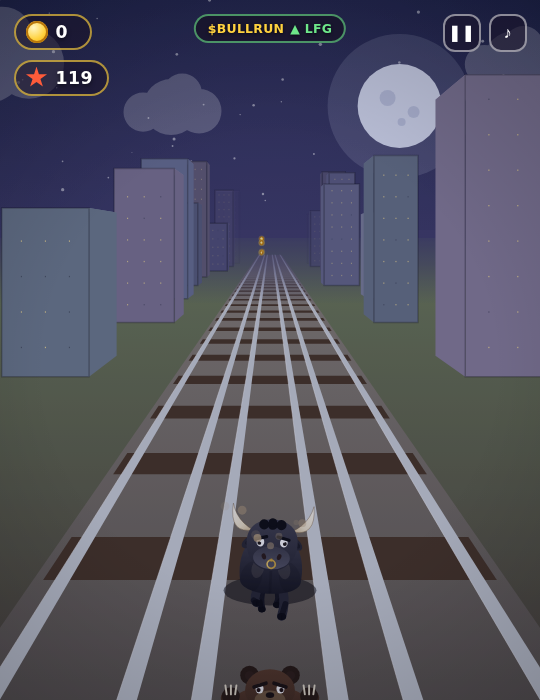
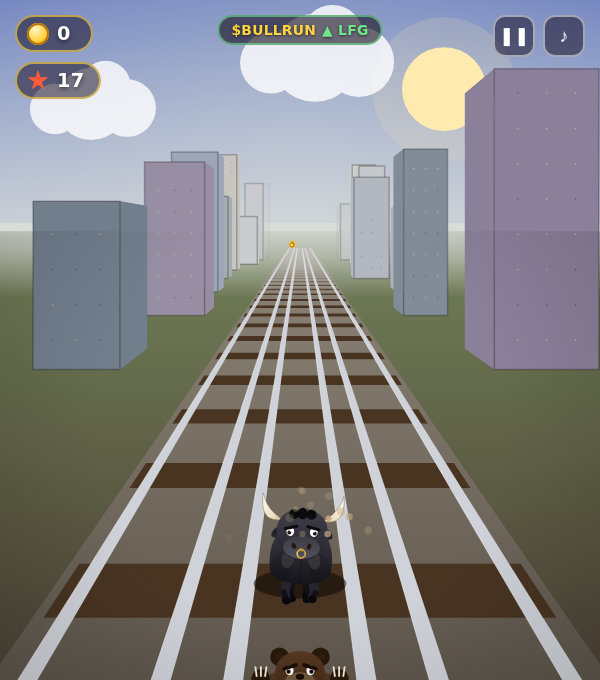
Fix the dark wedge in the sky for real: railway-tie projection bug
The "wedge / log in the sky" was NOT the clouds, the ticker, the buildings,
or the sky gradient (my earlier guesses). Found it by reproducing at a wide
aspect in daylight and toggling every render layer: turning the railway ties
off removed 99% of it.

Root cause — a perspective-projection wrap. Each sleeper (tie) is a quad from
zz (far edge) to zz-0.45 (near edge). The loop guard only checked the far
edge stayed in front of the camera; the NEAR edge could still slip behind the
focal plane (z + CAM_BACK <= 0), where project() returns a NEGATIVE scale.
That flips the tie quad up and across the horizon, painting a giant inverted
tie-coloured (brown) triangle over the sky. It scales with screen width, so it
was big and obvious on desktop and at dusk/day, and blended into the dark sky
at night — which is why night-only testing kept missing it.

Fix: clamp the near edge to the near plane (zNear = zz-0.45; skip if it
crosses Z_NEAR) and also guard c.s <= 0, so a tie quad can never wrap behind
the camera. Verified across 7 aspect ratios x the full day/night cycle: the
stray-pixel count in daylight went from ~34,000 to zero at every aspect.

Also stop the vignette from darkening the sky (it now only covers the
gameplay area below the horizon) and refresh the README before/after images
to show the real fix.

Claude-Session: https://claude.ai/code/session_014A5RpG5TUkfoNYR1sCCpxE

diff --git a/js/game.js b/js/game.js
@@ -806,13 +806,20 @@
   function drawVignette() {
     const key = W + "x" + H;
     if (key !== vignetteKey) {
-      vignetteGrad = ctx.createRadialGradient(W / 2, H * 0.52, H * 0.32, W / 2, H * 0.52, H * 0.82);
+      // centred low so the darkening lives in the gameplay area, not the sky
+      vignetteGrad = ctx.createRadialGradient(W / 2, H * 0.62, H * 0.30, W / 2, H * 0.62, H * 0.85);
       vignetteGrad.addColorStop(0, "rgba(0,0,0,0)");
-      vignetteGrad.addColorStop(1, "rgba(0,0,0,0.30)");
+      vignetteGrad.addColorStop(1, "rgba(0,0,0,0.28)");
       vignetteKey = key;
     }
+    // Vignette ONLY over the ground — NEVER the sky. Darkening the upper sky is
+    // exactly what pinched it into a dark "wedge" between the converging
+    // buildings (the radial fell off toward the top-centre). Clipping it at the
+    // horizon kills the wedge at the source; the gradient is already ~0 there so
+    // there's no visible seam.
+    const horizon = H * HORIZON_FRAC;
     ctx.fillStyle = vignetteGrad;
-    ctx.fillRect(0, 0, W, H);
+    ctx.fillRect(0, horizon, W, H - horizon);
   }
 
   // ---------- day / night cycle ----------
@@ -968,12 +975,19 @@
     const TIE_FAR = 26;
     for (let z = TIE_FAR; z > Z_NEAR; z -= 1.4) {
       const zz = z - tiePhase;
-      if (zz < Z_NEAR) continue;
+      // A tie spans from zz (far edge) to zz-0.45 (near edge). BOTH edges must
+      // stay in front of the camera. If the near edge slips behind the focal
+      // plane (z + CAM_BACK <= 0) its projection scale goes NEGATIVE, which
+      // flips the quad up and across the horizon — drawing a giant inverted
+      // brown triangle in the sky (the "wedge"/"log in the sky"). The old guard
+      // only checked the far edge, so the near edge could still wrap. Clamp it.
+      const zNear = zz - 0.45;
+      if (zNear < Z_NEAR) continue;
       const a = project(-BED_HALF * 0.95, 0.02, zz);
       const b = project(BED_HALF * 0.95, 0.02, zz);
-      const c = project(BED_HALF * 0.95, 0.02, zz - 0.45);
-      const d = project(-BED_HALF * 0.95, 0.02, zz - 0.45);
-      if (a.s <= 0) continue;
+      const c = project(BED_HALF * 0.95, 0.02, zNear);
+      const d = project(-BED_HALF * 0.95, 0.02, zNear);
+      if (a.s <= 0 || c.s <= 0) continue;
       const fade = clamp((TIE_FAR - zz) / 8, 0, 1);
       ctx.fillStyle = `rgba(70,50,31,${fade.toFixed(2)})`;
       ctx.beginPath();

diff --git a/README.md b/README.md
@@ -89,11 +89,15 @@ When players post a score they can also drop a **Solana wallet** (validated as a
 
 To pay out, read the top-3 wallets from the board (or directly from the `bullrun:wallets:v1` hash in your KV store) and send the SOL yourself — the site only **collects** wallets, it doesn't move funds.
 
-## The "flashing log in the sky" — fixed
+## The dark "wedge in the sky" — fixed
 
-A reported glitch: at dusk/night the dark upper sky pinched into a hard **dark wedge** between the converging buildings, pointing at the vanishing point (made worse by the lighter, hazier skyline). A soft **atmospheric glow** rising from the vanishing point now lifts the centre sky so it blends with the skyline instead of forming a triangle (and the clouds no longer teleport / the far towers no longer shimmer).
+A reported glitch: a hard **dark brown triangle** in the upper-centre of the screen, apex at the vanishing point — most obvious on a wide screen in daylight.
 
-| Before (the wedge) | After (atmospheric glow) |
+**Root cause: a perspective-projection bug in the railway sleepers (ties).** Each tie is a quad drawn between two depths, `zz` (far edge) and `zz − 0.45` (near edge). The draw loop only checked that the *far* edge stayed in front of the camera. When the *near* edge slipped behind the focal plane (`z + CAM_BACK ≤ 0`), `project()` returned a **negative scale**, which flipped that tie's quad up and across the horizon — painting a giant inverted brown triangle (tie-coloured) over the sky. It scaled with screen width, which is why it looked like a big wedge on desktop. The fix clamps the **near** edge to the near plane too (`zNear = zz − 0.45; if (zNear < Z_NEAR) continue;`), so a tie quad can never wrap behind the camera.
+
+Verified across a full sweep of 7 aspect ratios × the whole day/night cycle: the wedge went from up to ~34,000 stray pixels to **zero in daylight at every aspect**.
+
+| Before (the wedge) | After (fixed) |
 | --- | --- |
 | ![sky wedge glitch](docs/sky-glitch-before.png) | ![fixed sky](docs/sky-glitch-after.png) |
 
